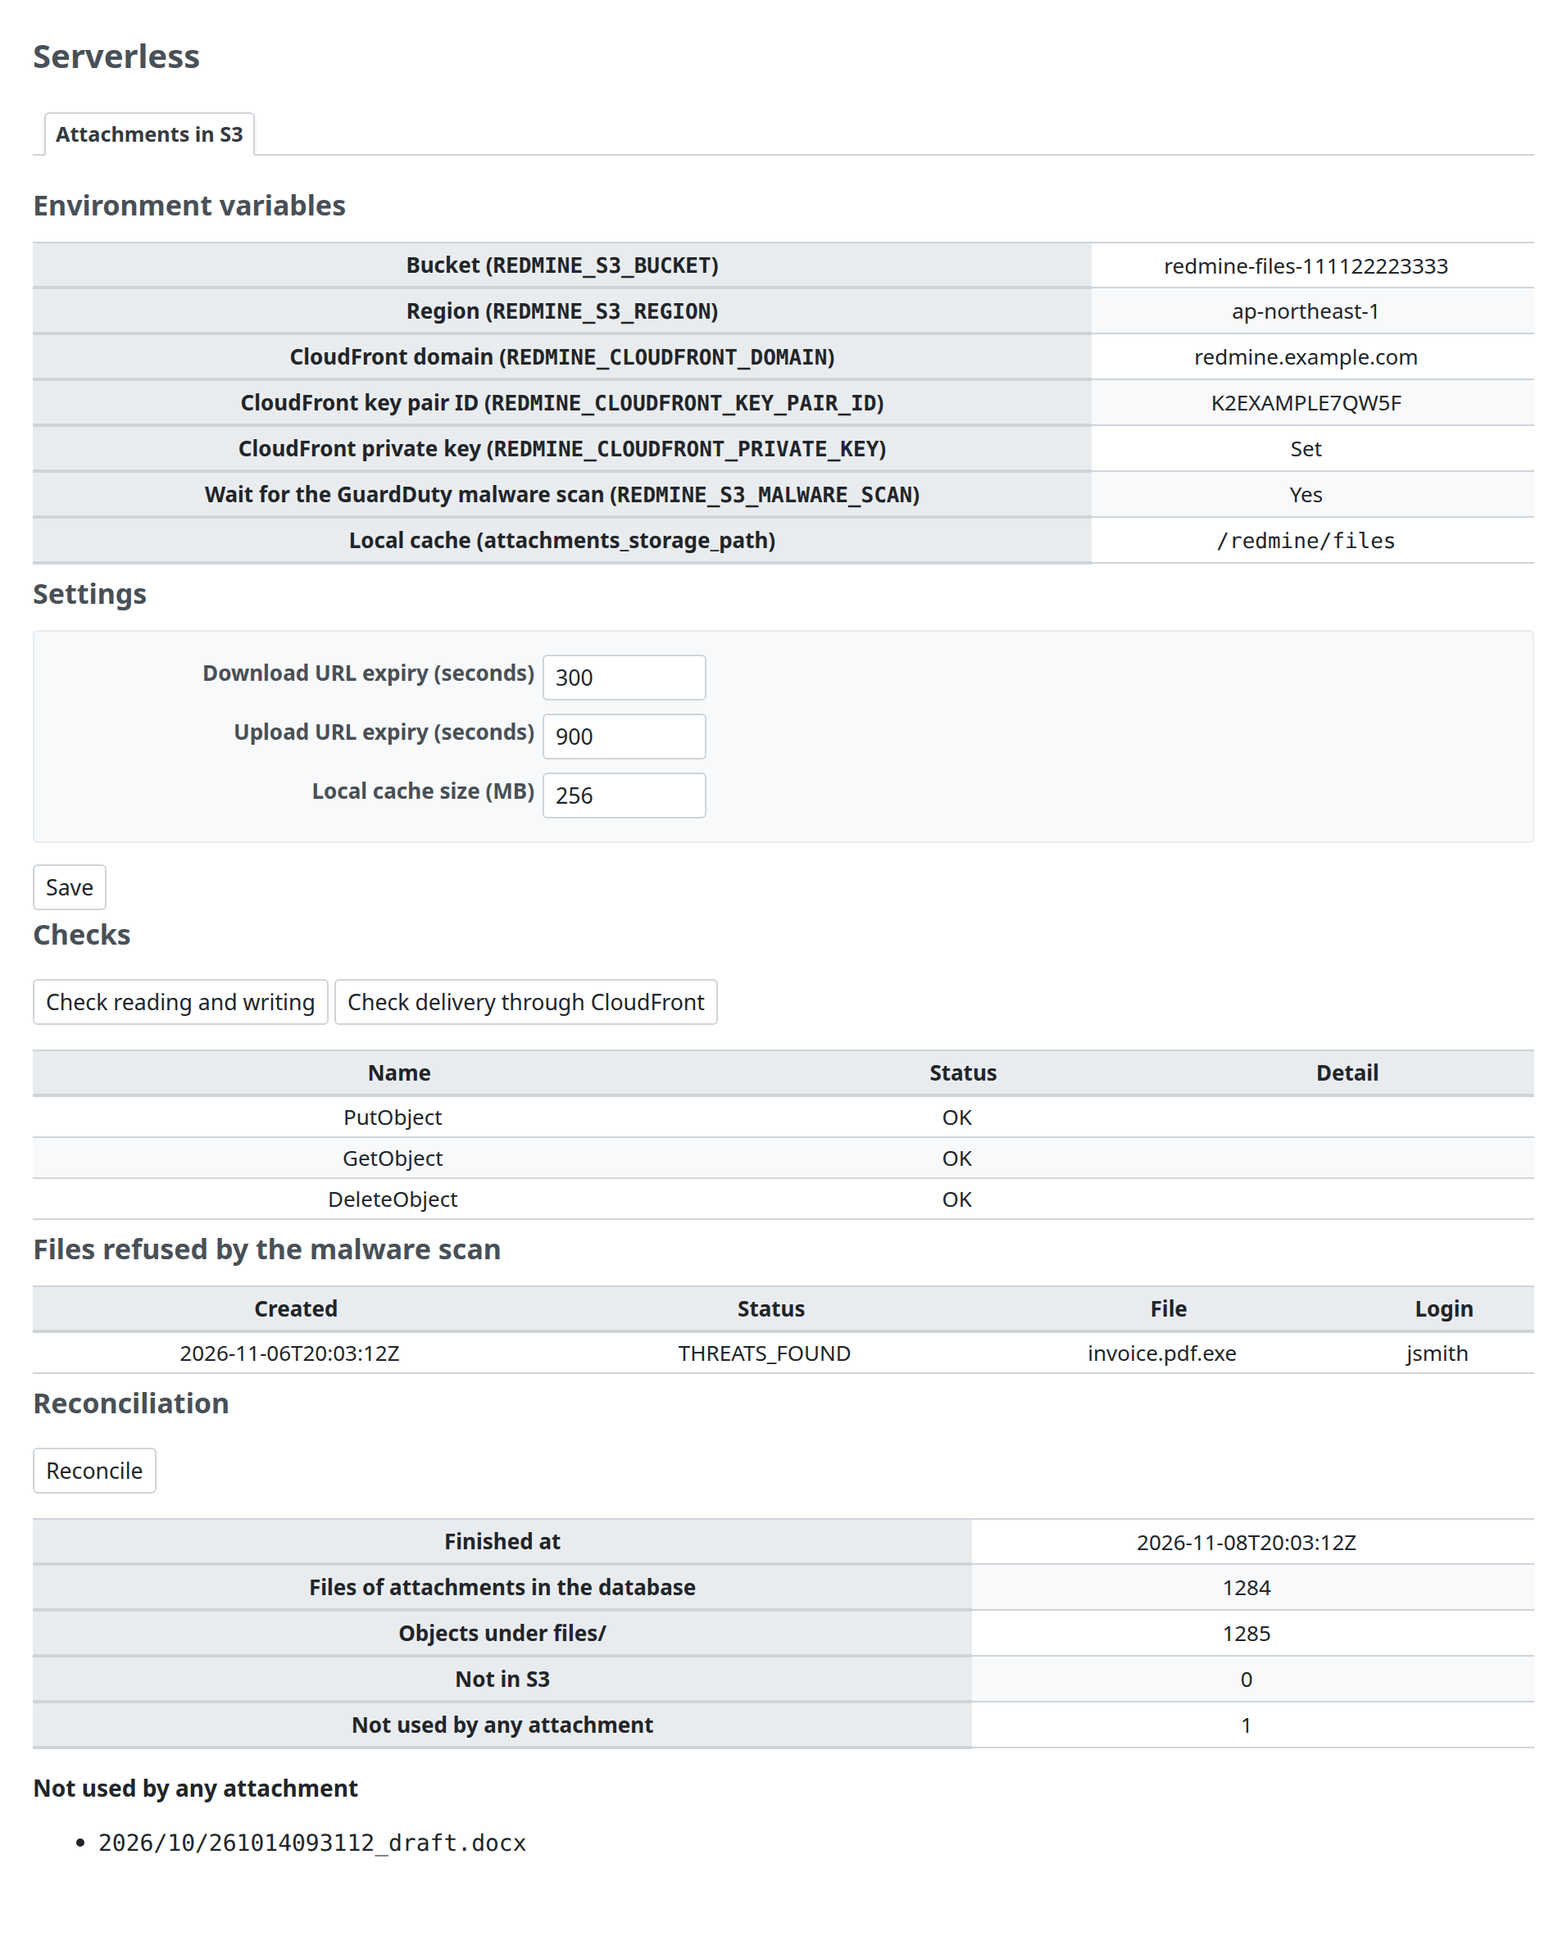
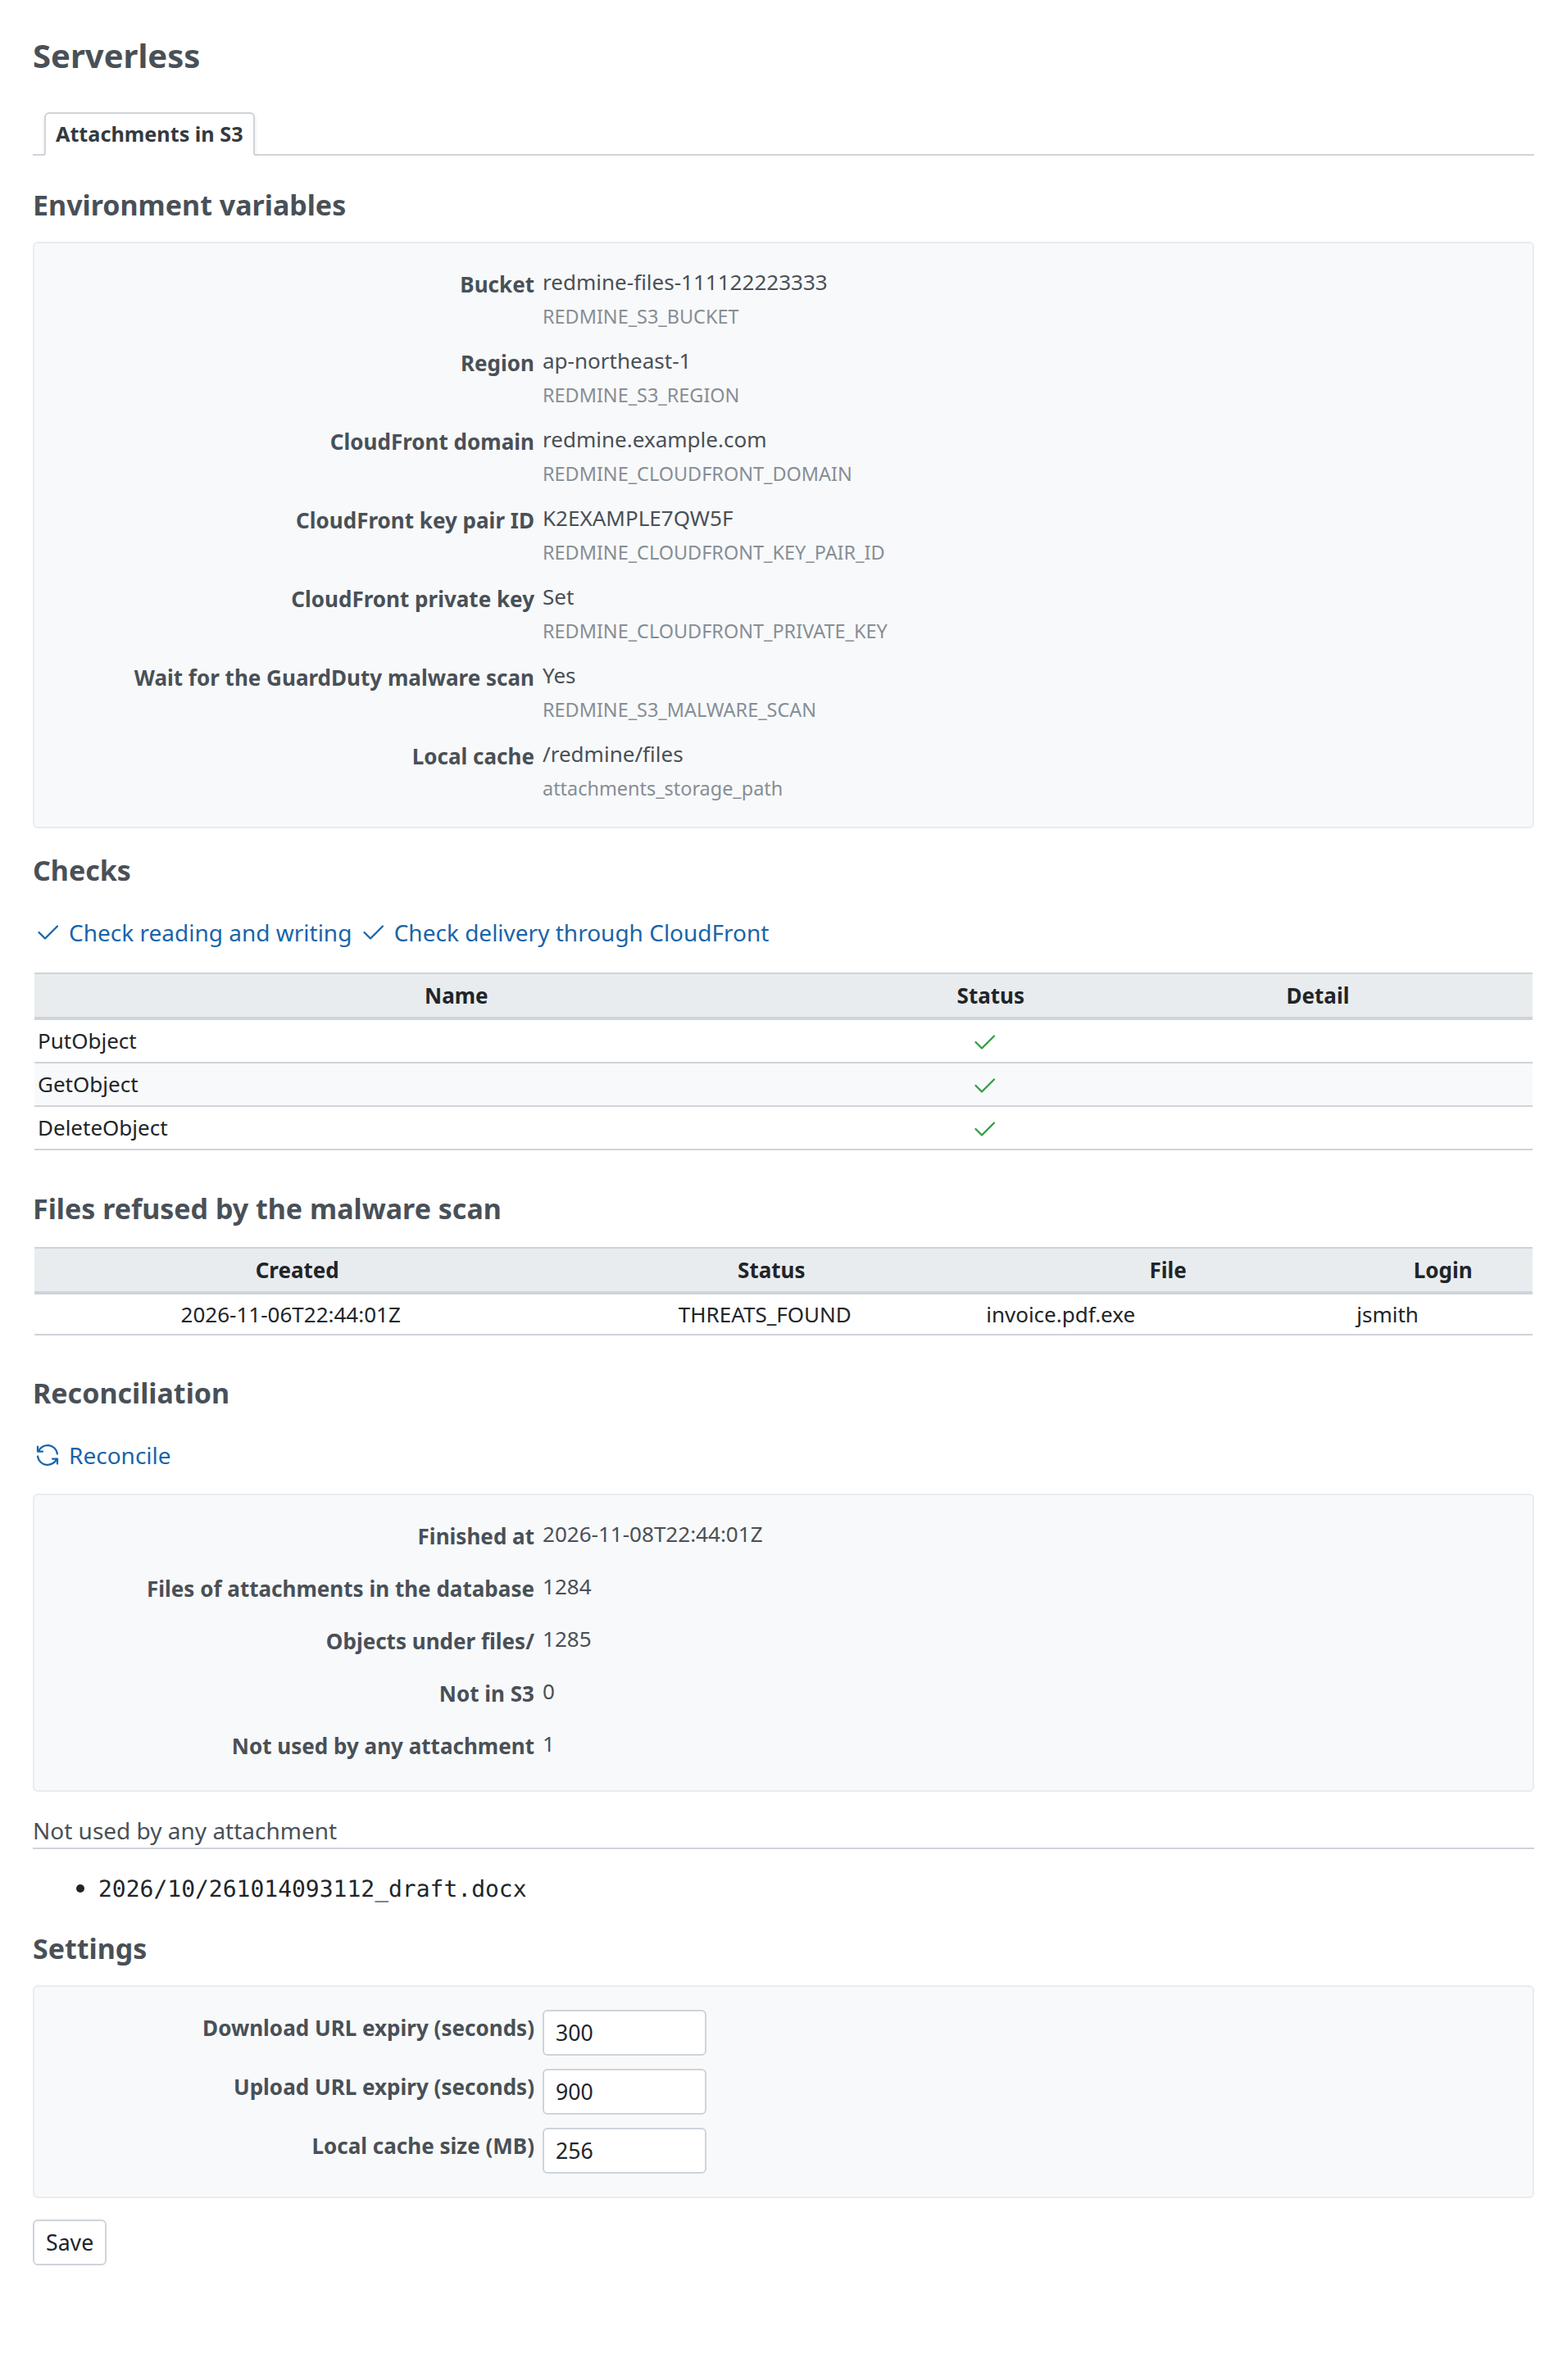
Take the S3 tab screenshots again, at the page's whole height

diff --git a/test/screenshots/screenshot_case.rb b/test/screenshots/screenshot_case.rb
@@ -45,8 +45,14 @@ class ScreenshotCase < ApplicationSystemTestCase
   # captures what is in the window; the focused field loses its caret.
   def shoot(name, language, selector: '#content')
     element = page.find(selector)
-    bottom = page.evaluate_script("document.querySelector(#{selector.to_json}).getBoundingClientRect().bottom")
-    page.driver.browser.manage.window.resize_to(1280, [bottom.ceil + 200, 900].max)
+    # Grow the window to the whole page: Redmine's #content stretches to the
+    # window, so the page's own height is measured, until it stops growing.
+    3.times do
+      height = page.evaluate_script('document.documentElement.scrollHeight')
+      break if height <= page.evaluate_script('window.innerHeight')
+
+      page.driver.browser.manage.window.resize_to(1280, height + 200)
+    end
     page.execute_script('window.scrollTo(0, 0); document.activeElement?.blur()')
     path = File.join(DOCS, LANGUAGES.fetch(language), "#{name}.png")
     element.native.save_screenshot(path)
